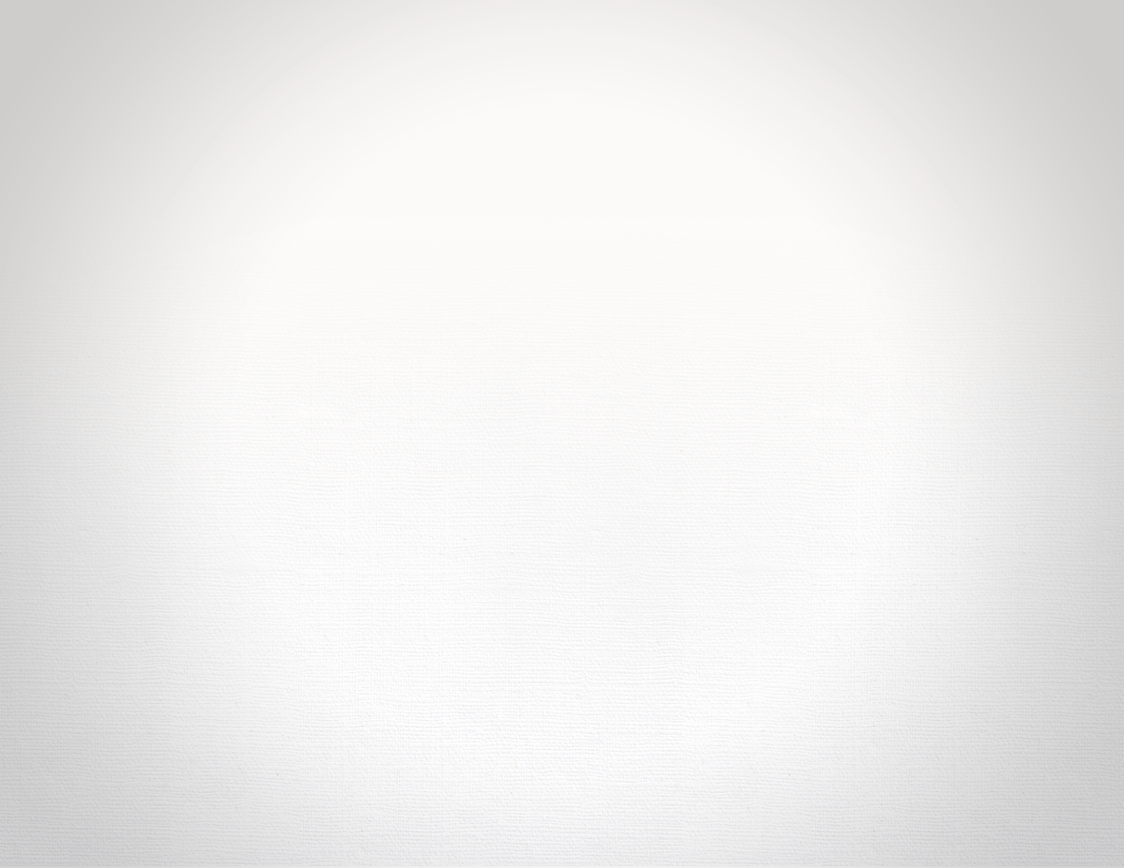
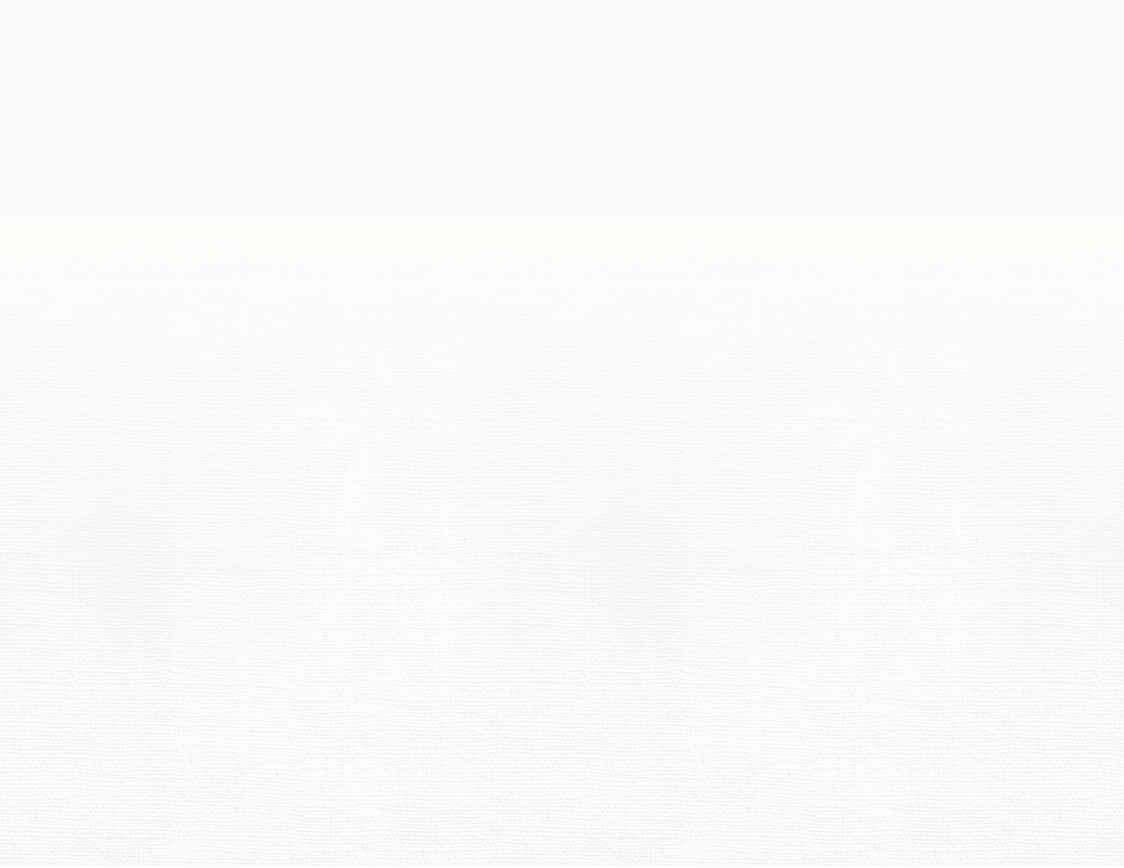
Updated graphics

Changed region(s): [[0.7162, 0.0, 1.0, 1.0], [0.0, 0.0, 0.2802, 1.0]]

diff --git a/Cook/Classes/Controllers/Dashboard/PagingBenchtopViewController.m b/Cook/Classes/Controllers/Dashboard/PagingBenchtopViewController.m
@@ -512,7 +512,8 @@
         [self.delegate panEnabledRequested:NO];
         
         // Dim overlay view.
-        UIImageView *overlayView = [[UIImageView alloc] initWithImage:[UIImage imageNamed:@"cook_dash_bg_overlay.png"]];
+        UIImageView *overlayView = [[UIImageView alloc] initWithImage:[UIImage imageNamed:@"cook_dash_background_whiteout.png"]];
+        overlayView.center = self.view.center;
         overlayView.alpha = 0.0;
         overlayView.userInteractionEnabled = YES;
         [self.view addSubview:overlayView];
@@ -529,11 +530,11 @@
         
         // Position the delete button.
         CGRect frame = [self.collectionView convertRect:cell.frame toView:overlayView];
-        UIButton *deleteButton = [ViewHelper buttonWithImage:[UIImage imageNamed:@"cook_customise_btns_cancel.png"]
+        UIButton *deleteButton = [ViewHelper buttonWithImage:[UIImage imageNamed:@"cook_btns_remove.png"]
                                                       target:self
                                                     selector:@selector(deleteTapped:)];
         deleteButton.frame = CGRectMake(frame.origin.x - floorf(deleteButton.frame.size.width / 2.0) + 3.0,
-                                        frame.origin.y - floorf(deleteButton.frame.size.height / 2.0),
+                                        frame.origin.y - floorf(deleteButton.frame.size.height / 2.0) + 15.0,
                                         deleteButton.frame.size.width,
                                         deleteButton.frame.size.height);
         [overlayView addSubview:deleteButton];

diff --git a/Cook/Classes/Controllers/Dashboard/IllustrationPickerViewController.m b/Cook/Classes/Controllers/Dashboard/IllustrationPickerViewController.m
@@ -42,7 +42,7 @@
 }
 
 - (void)viewDidLoad {
-    UIEdgeInsets insets = UIEdgeInsetsMake(0.0, 20.0, 30.0, 20.0);
+    UIEdgeInsets insets = UIEdgeInsetsMake(20.0, 20.0, 15.0, 20.0);
     CGSize itemSize = [IllustrationBookCell cellSize];
     
     self.view.frame = CGRectMake(0.0, 0.0, itemSize.width, insets.top + itemSize.height + insets.bottom);
@@ -63,10 +63,10 @@
     self.collectionView.decelerationRate = UIScrollViewDecelerationRateNormal;
     [self.collectionView registerClass:[IllustrationBookCell class] forCellWithReuseIdentifier:kIllustrationCellId];
     
-    UIImageView *shelfView = [[UIImageView alloc] initWithImage:[UIImage imageNamed:@"cook_dash_customise_shelves.png"]];
-    shelfView.frame = CGRectMake(0.0, self.view.bounds.size.height - shelfView.frame.size.height + 33.0, shelfView.frame.size.width, shelfView.frame.size.height);
-    shelfView.autoresizingMask = UIViewAutoresizingFlexibleRightMargin|UIViewAutoresizingFlexibleTopMargin;
-    [self.view insertSubview:shelfView belowSubview:self.collectionView];
+    UIImageView *dockView = [[UIImageView alloc] initWithImage:[[UIImage imageNamed:@"cook_customise_book_dock.png"] resizableImageWithCapInsets:(UIEdgeInsets){ 46.0, 1.0, 46.0, 1.0 }]];
+    dockView.frame = self.collectionView.frame;
+    dockView.autoresizingMask = UIViewAutoresizingFlexibleWidth|UIViewAutoresizingFlexibleHeight;;
+    [self.view insertSubview:dockView belowSubview:self.collectionView];
 }
 
 - (void)changeCover:(NSString *)cover {

diff --git a/Cook/Classes/Controllers/RootViewController.m b/Cook/Classes/Controllers/RootViewController.m
@@ -548,6 +548,12 @@
     self.benchtopOverlayView.alpha = 0.0;
     [self.view insertSubview:self.benchtopOverlayView aboveSubview:self.benchtopViewController.view];
     
+    // Vignette overlay to be hidden to start off with.
+    UIImageView *vignetteView = [[UIImageView alloc] initWithImage:[UIImage imageNamed:@"cook_dash_background_vignette.png"]];
+    vignetteView.center = self.benchtopViewController.view.center;
+    vignetteView.autoresizingMask = UIViewAutoresizingFlexibleLeftMargin|UIViewAutoresizingFlexibleRightMargin|UIViewAutoresizingFlexibleBottomMargin|UIViewAutoresizingFlexibleHeight;
+    [self.view insertSubview:vignetteView aboveSubview:self.benchtopViewController.view];
+    
     // Settings on Level 0
     self.settingsViewController.view.frame = [self settingsFrameForLevel:self.benchtopLevel];
     [self.view addSubview:self.settingsViewController.view];
